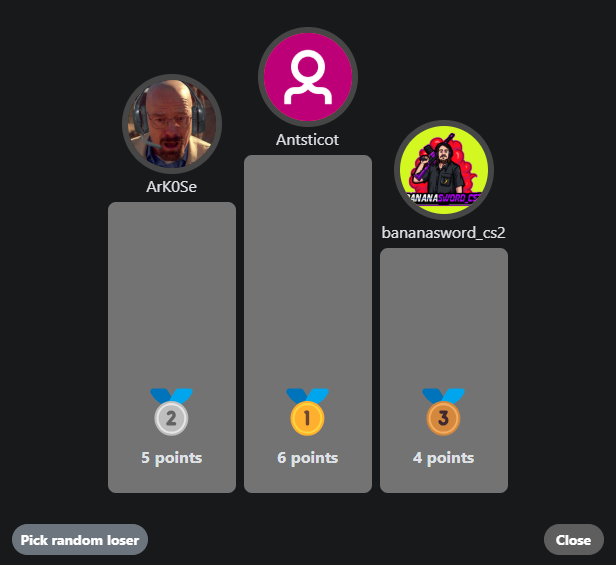
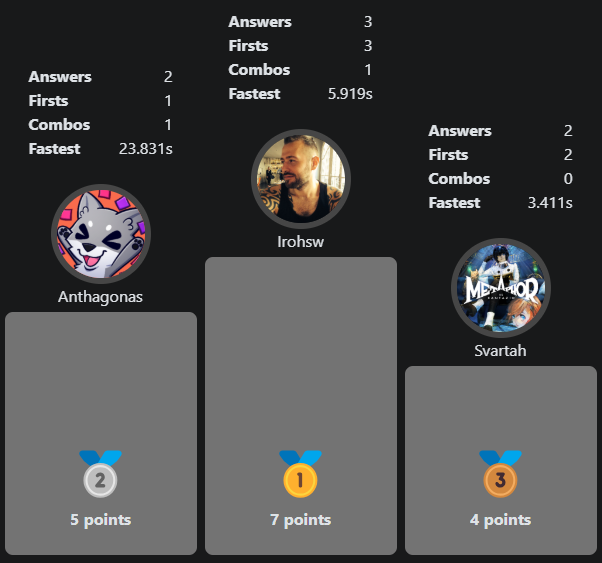
fix: better looking podium.

diff --git a/src/components/Podium.tsx b/src/components/Podium.tsx
@@ -16,10 +16,32 @@ const Podium = ({ onClose }: any) => {
     idx: number = -1;
   }
 
-  const computePlayer = (player: Player) => {
+  const computeStatsLine = (leftText: string, rightText: string) => {
+    return <span style={{ display: 'flex', justifyContent: 'space-between', width: '75%', margin: 'auto' }}>
+          <span style={{ textAlign: 'left' }}><strong>{leftText}</strong></span>
+          <span style={{ textAlign: 'right' }}>{rightText}</span>
+      </span>;
+  };
+
+  const computePlayerStats = (player: Player) => {
+    return <>
+      {computeStatsLine('Answers', `${player.stats.answers}`)}
+      {computeStatsLine('Firsts', `${player.stats.firsts}`)}
+      {computeStatsLine('Combos', `${player.stats.combos}`)}
+      {computeStatsLine('Fastest', `${Math.trunc(player.stats.fastestAnswer) / 1000}s`)}
+      <br />
+    </>;
+  };
+
+  const computePlayer = (player: Player, withStats: boolean) => {
     return <div
       key={`podium-avatar-${player.tid}`}
-      style={{ display: 'flex', flexDirection: 'column', width: '8rem', whiteSpace: 'nowrap', overflow: 'hidden' }}>
+      style={{ display: 'flex', flexDirection: 'column', width: '12rem', whiteSpace: 'nowrap', overflow: 'hidden' }}>
+
+      {withStats &&
+        computePlayerStats(player)
+      }
+
       <TwitchAvatar tid={player.tid} avatar={player.avatar} className="podium-avatar" />
       <span style={{ textAlign: 'center' }}>{player.nick}</span>
     </div>;
@@ -28,6 +50,7 @@ const Podium = ({ onClose }: any) => {
   const computePodiumStep = (
     players: Player[],
     delay: number,
+    withStats: boolean,
     color: string,
     heightPercent: number,
     emoji: string,
@@ -54,7 +77,7 @@ const Podium = ({ onClose }: any) => {
           }}
         >
           {players.map((player) => {
-            return computePlayer(player);
+            return computePlayer(player, withStats);
           })}
         </motion.div>
 
@@ -124,7 +147,6 @@ const Podium = ({ onClose }: any) => {
     <Modal scrollable={true} show={true} centered dialogClassName="podium-modal">
       <Modal.Body>
         <motion.div
-          layout
           style={{
             display: 'grid',
             gridAutoFlow: 'column dense',
@@ -133,7 +155,7 @@ const Podium = ({ onClose }: any) => {
             justifyContent: 'center',
             justifyItems: 'center',
             alignItems: 'flex-end',
-            height: '30rem',
+            height: '35rem',
             width: 'fit-content',
             margin: 'auto',
             paddingLeft: '6rem',
@@ -141,11 +163,12 @@ const Podium = ({ onClose }: any) => {
             paddingTop: '15px',
           }}
         >
-          {loser && computePodiumStep([loser], 0, '#474747FF', 60, '👑', 'Loser')}
+          {loser && computePodiumStep([loser], 0, false, '#474747FF', 50, '👑', 'Loser')}
           {podiumContent.map((step) => {
             return computePodiumStep(
               step.players,
               0.5 * (podiumContent.length - 1 - step.idx),
+              true,
               '#737373FF',
               (100 - 10 * (step.rank - 1)),
               ['🥇', '🥈', '🥉'][step.rank - 1],

diff --git a/src/components/Changelog.tsx b/src/components/Changelog.tsx
@@ -13,7 +13,7 @@ const Changelog = ({ show, onClose }: any) => {
         <img src="/BlindTesTwitch/chglg_3.png" className="border" />
         <br />
         <ul>
-          <li>Podium display at the end of the game</li>
+          <li>Podium display at the end of the game, with stats</li>
         </ul>
         <br />
         <h3><u>16/12/2024</u></h3>
